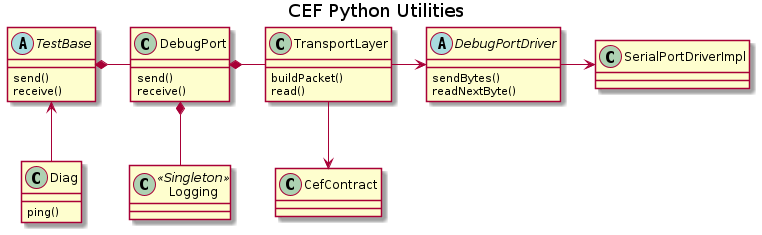
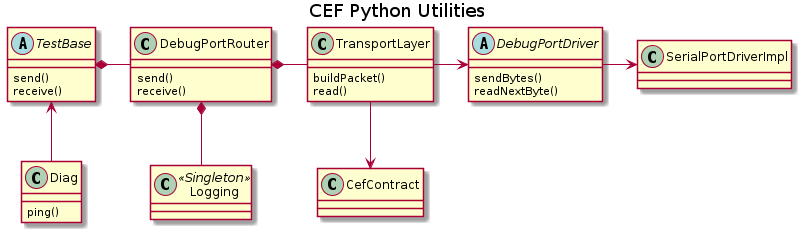
fixes for code review

diff --git a/Docs/ProjectDocs/PythonUtilities/PythonUtilitiesDescription.md b/Docs/ProjectDocs/PythonUtilities/PythonUtilitiesDescription.md
@@ -6,13 +6,9 @@ The Utility is run by executing a startup Python script with the '-i' option. Th
 
 ![PythonClassDiagram](DocsSource/PythonUtilities.png)
 
-## Debug Port
+## Debug Port Router
 
-The Utility has a communications structure for talking to the CEF target's debug port. 
-
-### Router
-
-At a top level is a class responsible for routing packets based on their content, whether commands or logging messages. 
+The Utility has a communications structure for talking to the CEF target's debug port and is responsible for routing packets based on their content, whether commands or logging messages. 
 
 #### Logging
 
@@ -40,11 +36,11 @@ The Utility includes a test framework - a collection of objects which make use o
 
 ### TestBase
 
-The framework starts with a TestBase object which has a DebugPort object as a member. The TestBase object is not directly instantiated, instead derived objects are which inherit from it. The Utility includes a Diag object already, while additional test objects are meant to be project-specific and defined by the user during development.
+The framework includes an 'abstract' TestBase object from which the user will define derived classes for exercising different components/subsystems of the target project. The TestBase class has a DebugPortRouter as a member, equipping derived classes with target communication.
 
 ### Diag
 
-Included in the Utility is a diagnostics test object derived from TestBase, with a ping() method which sends a command to the target and awaits a response within a timeout period. 
+Included in the Utility is a barebones diagnostics test object derived from TestBase. The Diag object contains a ping() method for testing DebugPort communicatons, which sends a command to the target and awaits a response within a timeout period. 
 
 ## Continuous Integration
 
